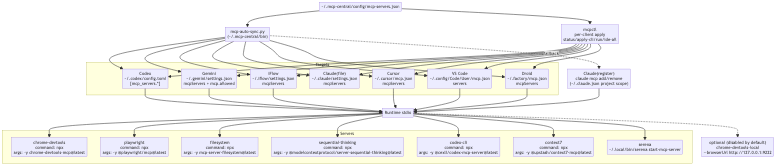
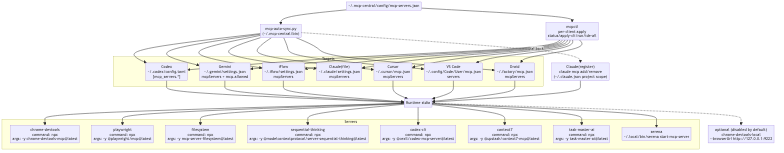
feat(task-master-ai): 样例与安装清单加入 task-master-ai；文档强调按需最小化配置\n\n- sample/install: 新增 task-master-ai (npx @latest)\n- README/QUICKSTART/mcpctl: 建议 CLI 裸奔、IDE 按需（如 task-master-ai+context7）\n- 架构图补充 task-master-ai 并重新渲染 PNG\n

diff --git a/docs/mcpctl.md b/docs/mcpctl.md
@@ -56,7 +56,8 @@ IDE（VS Code/Cursor）写入全部 MCP；具体开关在 IDE 内操作：
   - VS Code：~/.config/Code/User/mcp.json 与 ~/.config/Code - Insiders/User/mcp.json
   - Cursor：~/.cursor/mcp.json
 - 文件备份：所有改写会生成带时间戳的 .backup 便于回滚。
- - 中央清单建议：Node 生态服务显式写 `npx -y <package>@latest`，保持最新；如需稳定，可对单个服务改为固定版本（`@x.y.z`）。
+- 中央清单建议：Node 生态服务显式写 `npx -y <package>@latest`，保持最新；如需稳定，可对单个服务改为固定版本（`@x.y.z`）。
+- 成本建议：为降低 Token 消耗，建议 CLI（codex/claude/gemini/iflow/droid）按需落地甚至默认不落地；IDE 仅启用必要 MCP（如 `task-master-ai`、`context7`）。
 
 ## 故障排查
 

diff --git a/README.md b/README.md
@@ -100,6 +100,8 @@ mcpctl status claude    # 或 codex / vscode / cursor ...
            macOS Insiders `~/Library/Application Support/Code - Insiders/User/mcp.json`
            Linux `~/.config/Code/User/mcp.json` 与 `~/.config/Code - Insiders/User/mcp.json`
 
+最小化与按需：为节省上下文与 Token，建议 CLI（codex/claude/gemini/iflow/droid）默认不落地 MCP（裸奔），IDE 按需启用少量（如 `task-master-ai`、`context7`）。
+
 附注（Claude 命令兜底语法，工具内部已自动处理）：
 ```
 claude mcp add --transport stdio <name> \

diff --git a/docs/QUICKSTART-mac.md b/docs/QUICKSTART-mac.md
@@ -26,8 +26,8 @@ mcpctl run --client claude --servers context7,serena -- claude
 # 或者仅下发不启动：
 mcpctl apply-cli --client claude --servers context7,serena
 
-# IDE（VS Code/Cursor）全量写入，具体开关在 IDE 内操作：
-mcpctl ide-all
+# IDE（VS Code/Cursor）建议按需启用少量（示例：Cursor 只启用 task-master-ai + context7）：
+mcpctl apply-cli --client cursor --servers task-master-ai,context7
 
 # 查看当前集合：
 mcpctl status codex   # 或 claude/vscode/cursor
